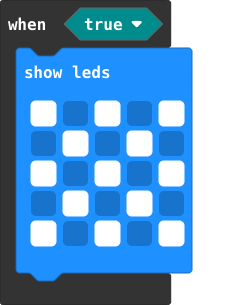
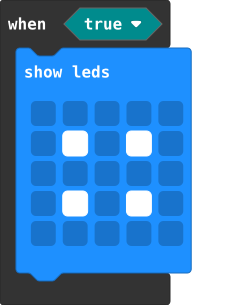
Update main.blocks, main.ts, Y.ts

diff --git a/main.ts b/main.ts
@@ -1,9 +1,9 @@
 moreBasic.when(true, function () {
     basic.showLeds(`
-        # . # . #
+        . . . . .
         . # . # .
-        # . # . #
+        . . . . .
         . # . # .
-        # . # . #
+        . . . . .
         `)
 })

diff --git a/Y.ts b/Y.ts
@@ -2,10 +2,7 @@
 namespace moreBasic{
 //% blockId=when_do block="when  %boolean"
 export function when(g: boolean, a: () => void): void{
-    while(true) {
     a
-    
-    }
     
 }
 
